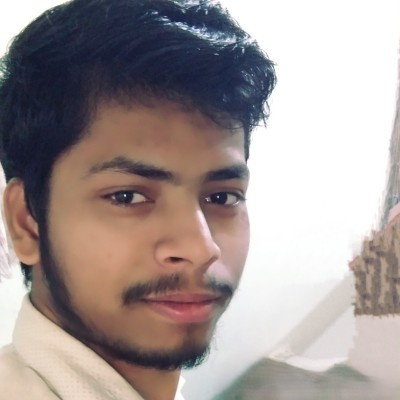
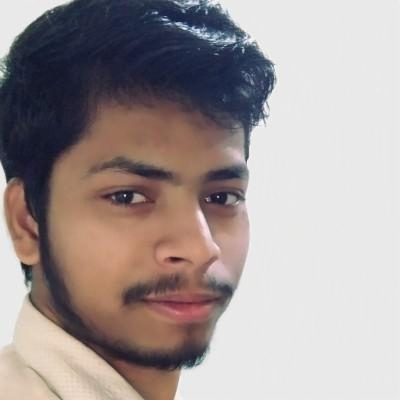
update profile image, and add updated information about role, projects and skills

diff --git a/index.html b/index.html
@@ -2,7 +2,7 @@
 <html lang="en">
 
 <head>
-  <title>Abhishek Singh - Full Stack Python Developer</title>
+  <title>Abhishek Singh - Software Developer Engineer</title>
   <meta charset="UTF-8" />
   <meta name="viewport" content="width=device-width" />
   <meta name="description"
@@ -42,11 +42,11 @@
         <div class="hero-text" data-aos="fade-right">
           <h1>Abhishek Singh</h1>
           <h2>Software Engineer at PURSUIT SOFTWARE</h2>
-          <p>Passionate about building dynamic web apps using Django, FastAPI, Laravel, and modern tech stacks.</p>
+          <p>Passionate about building AI based solutions using FastAPI, langchain, langgraph, vLLM, PyTorch, and modern tech stacks.</p>
           <div class="cta-buttons">
             <a href="#contact" class="btn primary">Hire Me</a>
             <a href="#projects" class="btn secondary">View Work</a>
-            <a href="https://drive.usercontent.google.com/u/0/uc?id=1nsu1SYsdmNSQvcw33XGDGZo0GiRxLIW1&export=download"
+            <a href="https://drive.usercontent.google.com/u/0/uc?id=1TzKmvqxx57wkLV3PseedPfxPe3LZW8w9&export=download"
               class="btn secondary" download>Download CV</a>
           </div>
           
@@ -55,17 +55,19 @@
               <img src="https://cdn.jsdelivr.net/gh/devicons/devicon/icons/python/python-original.svg" alt="Python">
               <p>Python</p>
             </div> -->
-            <div class="tech-item">
-              <img src="https://cdn.jsdelivr.net/gh/devicons/devicon/icons/django/django-plain.svg" alt="Django">
-              <p>Django</p>
-            </div>
+            
             <div class="tech-item">
               <img src="https://cdn.jsdelivr.net/gh/devicons/devicon/icons/fastapi/fastapi-original.svg" alt="FastAPI">
               <p>FastAPI</p>
             </div>
+            
             <div class="tech-item">
-              <img src="https://cdn.jsdelivr.net/gh/devicons/devicon/icons/laravel/laravel-original.svg" alt="Laravel">
-              <p>Laravel</p>
+              <img src="https://cdn.jsdelivr.net/gh/devicons/devicon/icons/pytorch/pytorch-original.svg" alt="PyTorch">
+              <p>PyTorch</p>
+            </div>
+            <div class="tech-item">
+              <img src="https://cdn.jsdelivr.net/gh/devicons/devicon/icons/azure/azure-original.svg" alt="Azure">
+              <p>Azure</p>
             </div>
             <!-- <div class="tech-item">
               <img src="https://cdn.jsdelivr.net/gh/devicons/devicon/icons/javascript/javascript-original.svg"
@@ -73,8 +75,8 @@
               <p>JavaScript</p>
             </div> -->
             <div class="tech-item">
-              <img src="https://cdn.jsdelivr.net/gh/devicons/devicon/icons/mongodb/mongodb-original.svg" alt="MongoDB">
-              <p>MongoDB</p>
+              <img src="https://cdn.jsdelivr.net/gh/devicons/devicon/icons/postgresql/postgresql-original.svg" alt="PostgreSQL">
+              <p>PostgreSQL</p>
             </div>
             <div class="tech-item">
               <img src="https://cdn.jsdelivr.net/gh/devicons/devicon/icons/docker/docker-original.svg" alt="Docker">
@@ -85,6 +87,7 @@
             <a href="https://github.com/SinghIsWriting" target="_blank"><i class="fab fa-github"></i></a>
             <a href="https://linkedin.com/in/abhishek-singh-bba2662a9" target="_blank"><i class="fab fa-linkedin"></i></a>
             <a href="mailto:sabhisheksingh343104@gmail.com" target="_blank"><i class="fas fa-envelope"></i></a>
+            <a href="https://huggingface.co/learn-abc" target="_blank">🤗</a>
           </div>
         </div>
         <div class="hero-image" data-aos="fade-left">
@@ -101,9 +104,7 @@
           <div class="about-text">
             <p>
               Currently learning and contributing as a Software Engineer at PURSUIT SOFTWARE. With experience in full-stack development, I
-              specialize in building scalable web applications using Python, PHP, JavaScript and modern frameworks. My expertise spans both backend
-              development with Django/FastAPI/Laravel and frontend technologies
-              including React.
+              specialize in building scalable web applications using Python, FastAPI, Django, and various frontend technologies. Built and deployed AI driven solutions, I have a strong foundation in data structures, algorithms, and software design principles.
             </p>
             <p>
               I'm passionate about clean coding, software architecture, and
@@ -147,8 +148,8 @@
                 <div class="progress" style="width: 90%"></div>
               </li>
               <li>
-                <span>PHP</span>
-                <div class="progress" style="width: 65%"></div>
+                <span>JavaScript</span>
+                <div class="progress" style="width: 85%"></div>
               </li>
               <li>
                 <span>Bash</span>
@@ -165,15 +166,15 @@
               </li>
               <li>
                 <span>FastAPI</span>
-                <div class="progress" style="width: 55%"></div>
+                <div class="progress" style="width: 75%"></div>
+              </li>
+              <li>
+                <span>NodeJS</span>
+                <div class="progress" style="width: 70%"></div>
               </li>
               <li>
                 <span>Laravel</span>
-                <div class="progress" style="width: 50%"></div>
-              </li>
-              <li>
-                <span>NodeJs</span>
-                <div class="progress" style="width: 30%"></div>
+                <div class="progress" style="width: 60%"></div>
               </li>
               <!-- <li>
                 <span>DSA</span>
@@ -189,12 +190,12 @@
                 <div class="progress" style="width: 80%"></div>
               </li>
               <li>
-                <span>HTML5/CSS3</span>
+                <span>ReactJS</span>
                 <div class="progress" style="width: 90%"></div>
               </li>
               <li>
-                <span>React</span>
-                <div class="progress" style="width: 55%"></div>
+                <span>HTML5/CSS3</span>
+                <div class="progress" style="width: 75%"></div>
               </li>
               <li>
                 <span>Bootstrap</span>
@@ -206,7 +207,7 @@
             <h3>Database</h3>
             <ul>
               <li>
-                <span>SQLite</span>
+                <span>PostgreSQL</span>
                 <div class="progress" style="width: 85%"></div>
               </li>
               <li>
@@ -253,6 +254,32 @@
         <h2 class="section-title">Featured Projects</h2>
         <div class="projects-grid">
 
+          <!-- File Previewer Project -->
+          <div class="project-card">
+            <div class="project-image">
+              <img src="images/image.png" alt="Filepreview" />
+            </div>
+            <div class="project-info">
+              <h2>FileSpot - Universal File Previewer</h2>
+              <p>
+                Experience instant previews and edit almost all daily used file types, deep analysis, and AI insights for every file. Fast. Universal. Private.
+              </p>
+
+              <div class="project-tags">
+                <span>ReactJS</span>
+                <span>Node.js</span>
+                <span>Supabase</span>
+                <span>Vercel</span>
+                <span>Gemini-powered</span>
+              </div>
+
+              <div class="project-links">
+                <a href="https://file.devhome.me/" target="_blank" class="btn small live">Live Demo</a>
+                <a href="https://github.com/SinghIsWriting" target="_blank" class="btn small secondary disabled">Source Code</a>
+              </div>
+            </div>
+          </div>
+
           <!-- Budget Manager Project -->
           <div class="project-card">
             <div class="project-image">
@@ -283,7 +310,7 @@
           <!-- RRAlloys Project -->
           <div class="project-card">
             <div class="project-image">
-              <img src="images/macro.jpg" alt="RRAlloys" />
+              <img src="images/image2.png" alt="RRAlloys" />
             </div>
             <div class="project-info">
               <h2>Rajasthan Resistance Alloys</h2>
@@ -301,31 +328,6 @@
               <div class="project-links">
                 <a href="https://rralloys.in/" target="_blank" class="btn small live">Live Demo</a>
                 <a href="https://github.com/SinghIsWriting/" target="_blank" class="btn small secondary">Source Code</a>
-              </div>
-            </div>
-          </div>
-
-          <!-- Fast Note Project -->
-          <div class="project-card">
-            <div class="project-image">
-              <img src="images/notepad.jpg" alt="Fastnote" />
-            </div>
-            <div class="project-info">
-              <h2>FastNote - FastAPI Project</h2>
-              <p>
-                A Note Management Appl built using FastAPI and MongoDB. It allows users to create, read, update, and delete notes with marking them important.
-              </p>
-
-              <div class="project-tags">
-                <span>AWS</span>
-                <span>FastAPI</span>
-                <span>MongoDB</span>
-                <span>JavaScript</span>
-              </div>
-
-              <div class="project-links">
-                <a href="https://fastnote.devhome.me/" target="_blank" class="btn small live">Live Demo</a>
-                <a href="https://github.com/SinghIsWriting/NoteAPP-FastAPI-MongoDB.git" target="_blank" class="btn small secondary">Source Code</a>
               </div>
             </div>
           </div>
@@ -486,8 +488,20 @@
               <p>
               <p>Indore, Madhya Pradesh, India</p>
               <p>
+              <p>
+                <ul>
+                  <li>Built and improved AI driven banking chatbot systems (RAG based) for customer support and financial assistance</li>
+                  <li>Researching and implementing LLM fine tuning, intent detection models, and NLP pipelines</li>
+                  <li>Preparing and curating large scale training datasets for conversational AI systems</li>
+                  <li>Exploring BERT based models, transformer architectures, and modern LLM frameworks</li>
+                  <li>Working on system integrations, API based services, and backend development</li>
+                  <li>Contributing to analytics dashboards and monitoring systems for AI performance</li>
+                </ul>
+              </p>
+                </ul>
+              </p>
               <!-- <p>Developed an AI-powered legal research platform for commercial courts officials.</p> -->
-              <p><strong>Technologies Used:</strong> Django, FastAPI, Laravel, Docker, PostgreSQL, SQLite3, LLMs.</p>
+              <p><strong>Technologies Used:</strong> FastAPI, RAG, LLM Fine-tuning and Delployment, Docker, Azure, PostgreSQL</p>
               </p>
               </p>
             </div>
@@ -575,26 +589,21 @@
         <h2 class="section-title">Get In Touch</h2>
         <div class="contact-content">
           <div class="contact-info">
-            <div class="contact-card" data-aos="fade-up" data-aos-delay="100">
-              <i class="fab fa-linkedin"></i>
-              <h3>LinkedIn</h3>
-              <p>abhishek-singh-bba2662a9</p>
-            </div>
-            <div class="contact-card" data-aos="fade-up" data-aos-delay="100">
-              <i class="fas fa-envelope"></i>
-              <h3>Email</h3>
-              <p>sabhisheksingh343104@gmail.com</p>
-            </div>
-            <div class="contact-card" data-aos="fade-up" data-aos-delay="100">
-              <i class="fas fa-map-marker-alt"></i>
-              <h3>Location</h3>
-              <p>Dhanbad, Jharkhand IN</p>
-            </div>
             <div class="contact-card social-media" data-aos="fade-up" data-aos-delay="100">
                 <a href="https://github.com/SinghIsWriting" target="_blank"><i class="fab fa-github"></i></a>
                 <a href="https://linkedin.com/in/abhishek-singh-bba2662a9" target="_blank"><i
                     class="fab fa-linkedin"></i></a>
                 <a href="mailto:sabhisheksingh343104@gmail.com" target="_blank"><i class="fas fa-envelope"></i></a>
+            </div>
+            <div class="contact-card" data-aos="fade-up" data-aos-delay="100">
+              <i class="fas fa-map-marker-alt"></i>
+              <h3>Location</h3>
+              <p>Indore, Madhya Pradesh IN</p>
+            </div>
+            <div class="contact-card" data-aos="fade-up" data-aos-delay="100">
+              🤗
+              <h3>Hugging Face</h3>
+              <p>huggingface.co/learn-abc</p>
             </div>
           </div>
           <form class="contact-form" id="contact-form">
@@ -619,11 +628,12 @@
 
   <footer>
     <div class="footer-content">
-      <p>&copy; 2025 Abhishek Singh. All rights reserved.</p>
+      <p>&copy; 2026 Abhishek Singh. All rights reserved.</p>
       <div class="social-links">
         <a href="https://github.com/SinghIsWriting" target="_blank"><i class="fab fa-github"></i></a>
         <a href="https://linkedin.com/in/abhishek-singh-bba2662a9" target="_blank"><i class="fab fa-linkedin"></i></a>
         <a href="mailto:sabhisheksingh343104@gmail.com" target="_blank"><i class="fas fa-envelope"></i></a>
+        <a href="https://huggingface.co/learn-abc" target="_blank">🤗</a>
       </div>
     </div>
   </footer>

diff --git a/styles.css b/styles.css
@@ -667,7 +667,7 @@ footer {
   gap: 1.2rem;
 }
 .hero-social-links a {
-  color: var(--primary-color);
+  /* color: var(--primary-color); */
   font-size: 1.5rem;
   transition: color 0.3s ease;
 }
